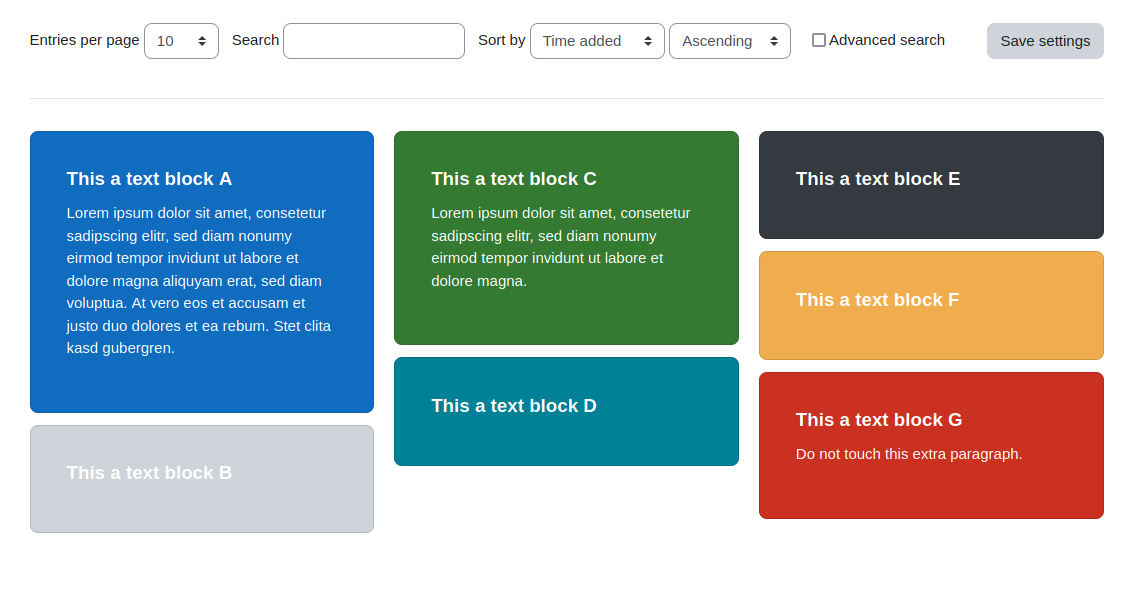
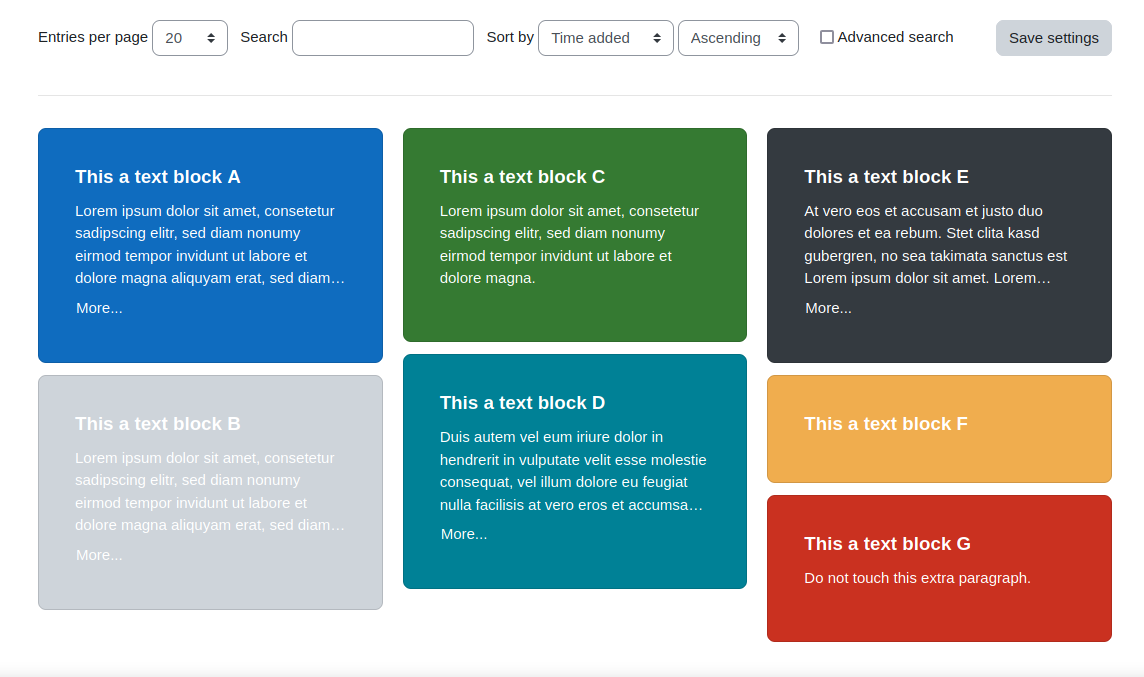
Add read more/less buttons to preserve a maximum card size

diff --git a/cards-in-masonry-layout/listtemplatefooter.html b/cards-in-masonry-layout/listtemplatefooter.html
@@ -1,1 +1,29 @@
 </div>
+<script>
+const cardTriggerMoreLess = function(ev) {
+  ev.preventDefault();
+  ev.target.classList.add('hidden');
+  const container = ev.target.parentElement;
+  const content = container.querySelector('.card-content');
+  if (content.classList.contains('line-clamp')) {
+    content.classList.remove('line-clamp');
+    container.querySelector('button.read-less').classList.remove('hidden');
+  } else {
+    content.classList.add('line-clamp');
+    container.querySelector('button.read-more').classList.remove('hidden');
+  }
+};
+document.addEventListener("DOMContentLoaded", (event) => {
+  const cards = document.querySelectorAll('div.card-content');
+  cards.forEach((el) => {
+    if (el.offsetHeight < el.scrollHeight || el.offsetWidth < el.scrollWidth) {
+       // element has overflow and is truncated, add event listener to read more / read less button
+      el.parentElement.querySelectorAll('button').forEach((b) => b.addEventListener("click", cardTriggerMoreLess, false));  
+    } else {
+      // Remove the line-clamp class and hide the read more button because the content fits in the container.
+      el.classList.remove('line-clamp');
+      el.parentElement.querySelector('button.read-more').classList.add('hidden');
+    }
+  });
+});
+</script>

diff --git a/cards-in-masonry-layout/listtemplate.html b/cards-in-masonry-layout/listtemplate.html
@@ -1,6 +1,8 @@
- <div class="card bg-[[card_type]] text-white p-3">
+<div class="card bg-[[card_type]] text-white p-3">
     <div class="card-body">
-      <h5 class="card-title">[[card_title]]</h5>
-      [[card_content]]
+        <h5 class="card-title">[[card_title]]</h5>
+        <div class="card-content line-clamp">[[card_content]]</div>
+        <button class="btn btn-link read-more">More...</button>
+        <button class="btn btn-link read-less hidden">Less...</button>
     </div>
-  </div>
+</div>

diff --git a/cards-in-masonry-layout/csstemplate.css b/cards-in-masonry-layout/csstemplate.css
@@ -12,3 +12,17 @@
     column-count: 3;
   }
 }
+div.card-content.line-clamp {
+  overflow: hidden;
+  display: -webkit-box;
+  -webkit-box-orient: vertical;
+  /* truncate to 4 lines */
+  -webkit-line-clamp: 4;
+}
+.read-more, .read-less {
+  color: #fff;
+  padding-left: 0;
+}
+.read-more:hover, .read-less:hover {
+  color: #fff;
+}

diff --git a/cards-in-masonry-layout/README.md b/cards-in-masonry-layout/README.md
@@ -32,9 +32,20 @@ arbitrary HTML. Even images can be used there.
 The *Add entry template* is modified in that way, that when changing the card type, a little
 preview is shown how the card would look like.
 
-The *Custom CSS* template contains styles for this little card preview in the *Add entry template* 
-and also adds media queries, that defines the used columns for the card layout, depending
+The *Custom CSS* template contains styles for:
+* The little card preview in the *Add entry template*
+* Media queries, that defines the used columns for the card layout, depending
 on the screen with.
+* Styles for the content container of the card content and the necessary styles for the
+read more and read less buttons.
+
+The bottom block of the *List view template* contains javascript for the "Read more" and "Read less"
+buttons. The height of a card is controlled by the css setting `-webkit-line-clamp: 4;` (which
+refers to 4 lines height). You can adjust the value to your needs. If you do not want/need this
+functionality you may remove the entire javascript from the footer part of the template, and remove
+the buttons from the center block of the template. Also, the `<div>` element surrounding the
+`[[card_content]]` can be removed. The idea for the "Read more" functionality was taken from
+[https://rubyyagi.com/how-to-truncate-long-text-and-show-read-more-less-button/](https://rubyyagi.com/how-to-truncate-long-text-and-show-read-more-less-button/)
 
 A dataset sample in `sample-cards.csv` can be used to see how the page would look like with the
 different card types. It contains basically what is shown in the screenshot. 
